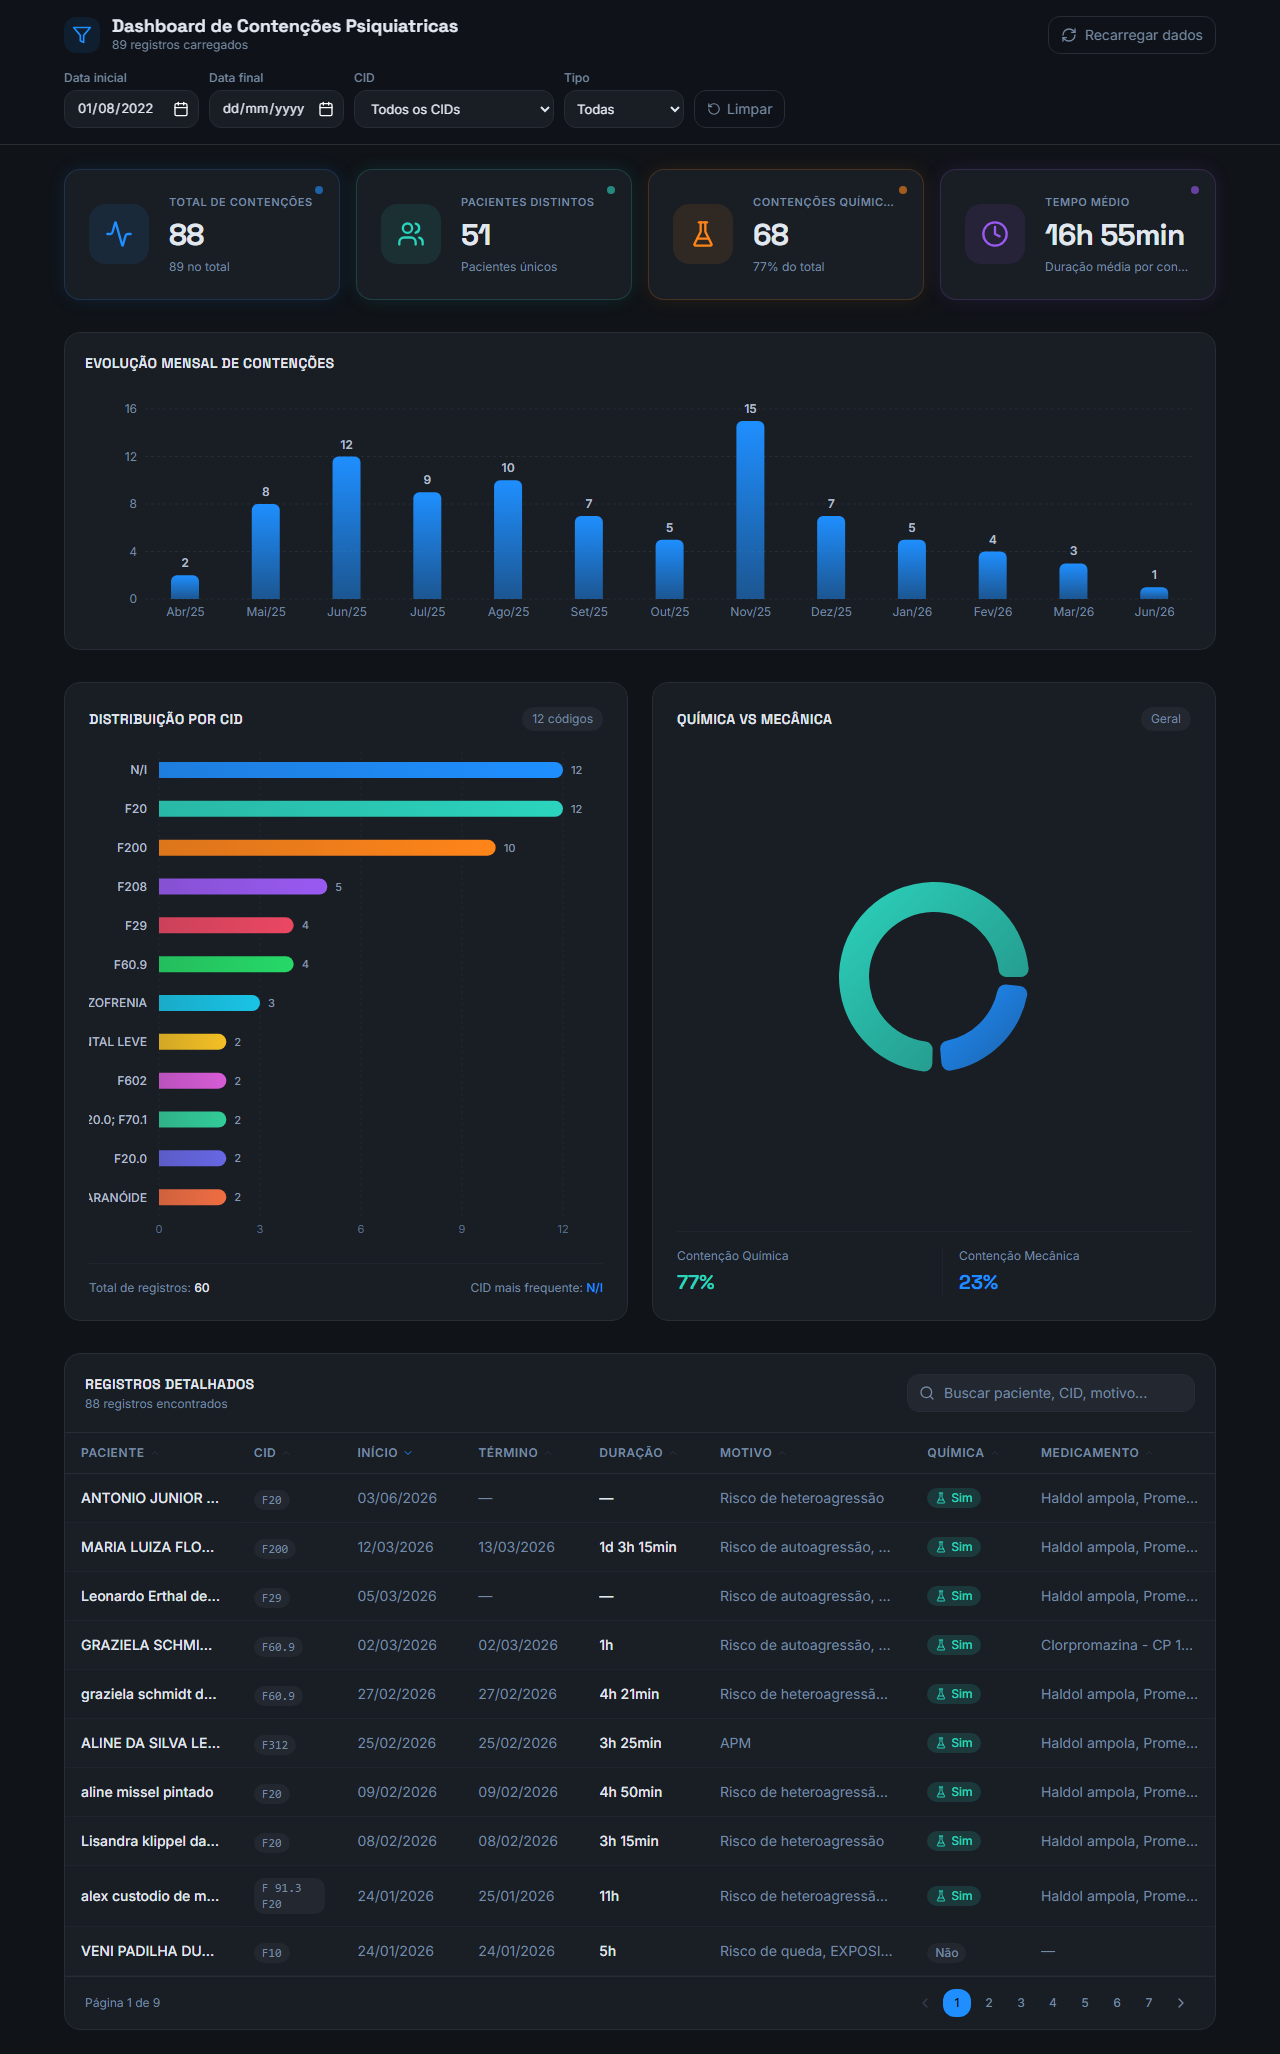
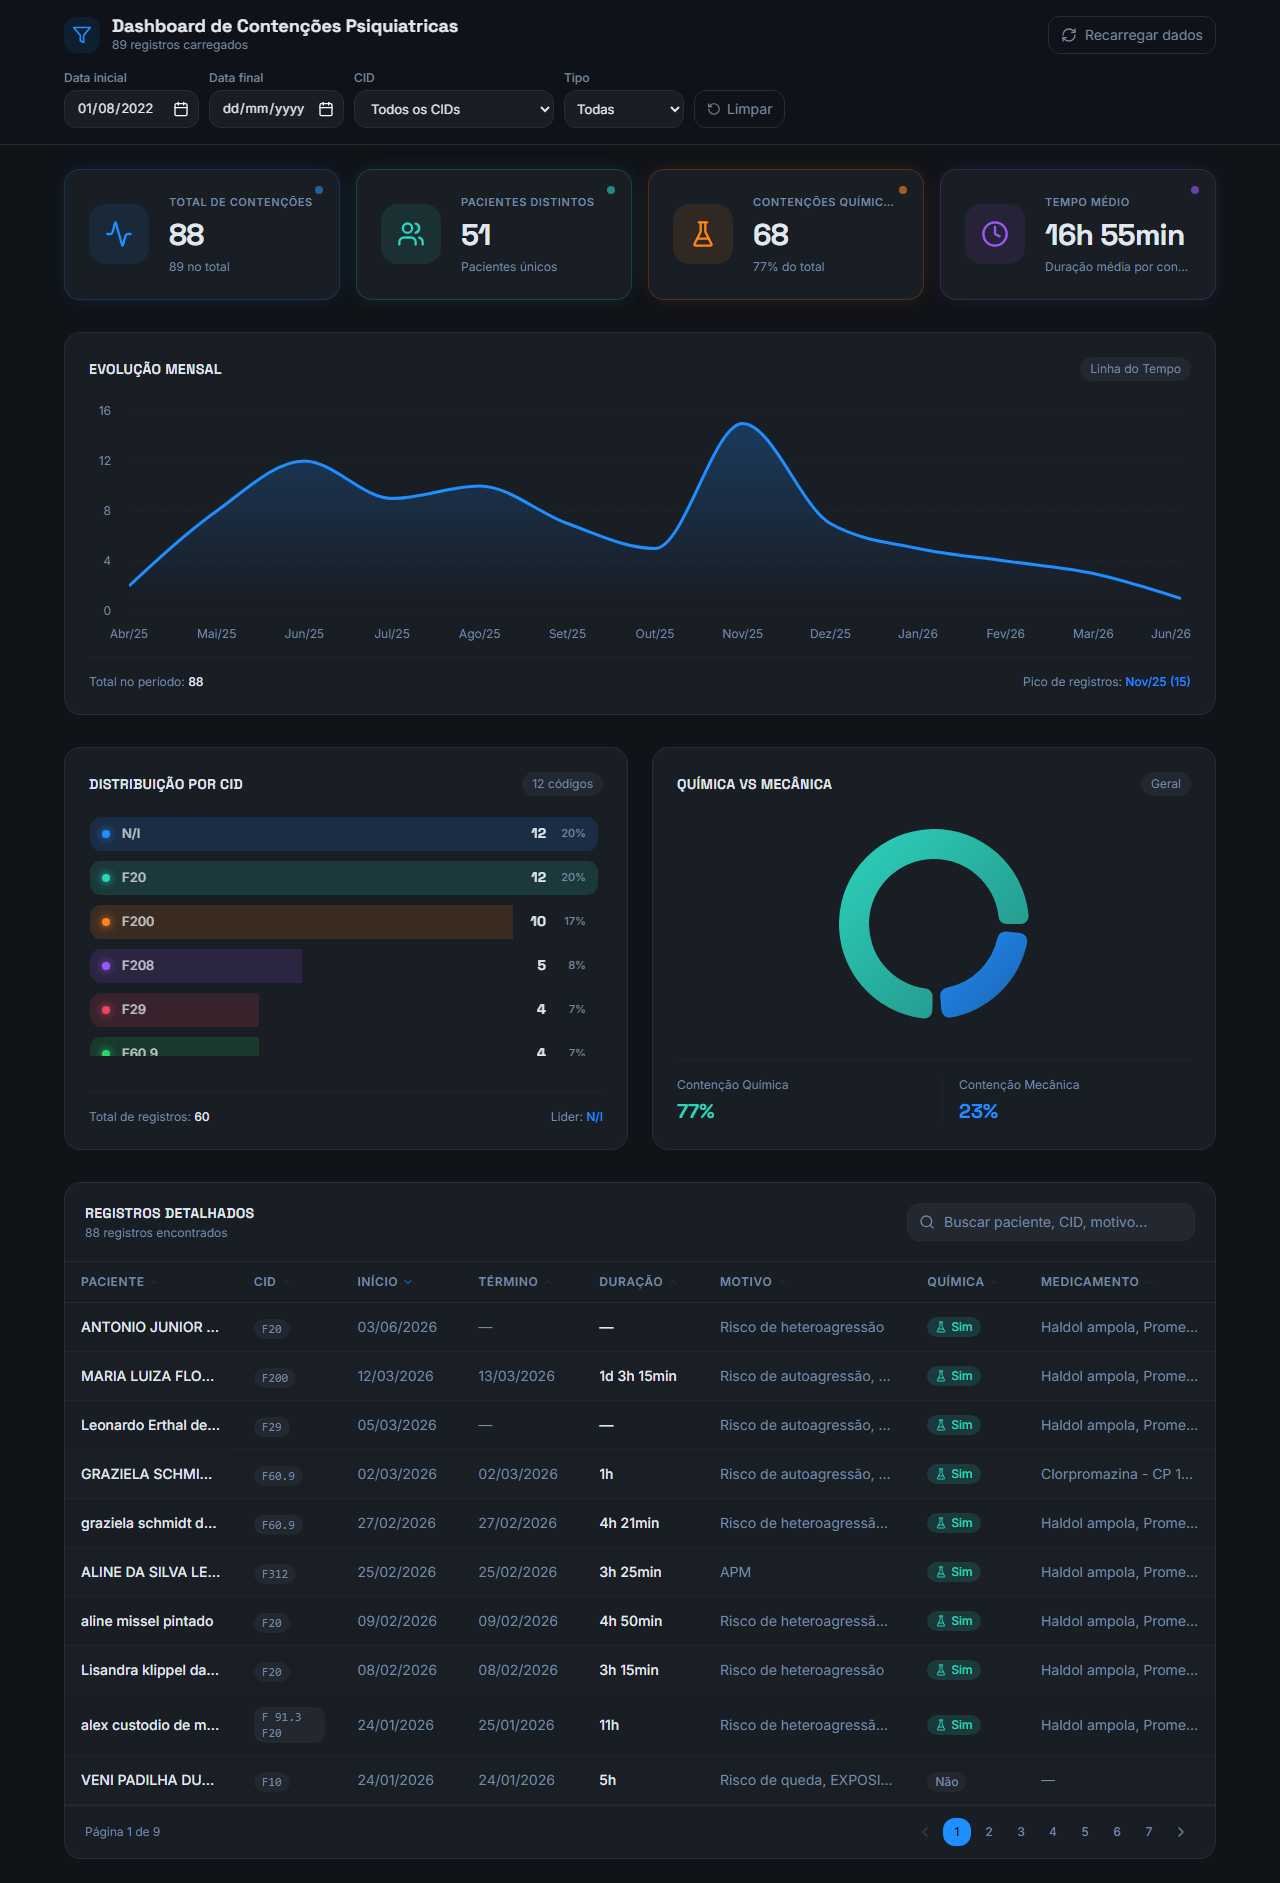
docs: resync README screenshots with final unified chart designs

diff --git a/src/components/dashboard/Charts.tsx b/src/components/dashboard/Charts.tsx
@@ -1,7 +1,8 @@
 import { motion } from "framer-motion";
 import {
   BarChart, Bar, LineChart, Line, XAxis, YAxis, CartesianGrid,
-  Tooltip, ResponsiveContainer, PieChart, Pie, Cell, Legend
+  Tooltip, ResponsiveContainer, PieChart, Pie, Cell, Legend,
+  AreaChart, Area
 } from "recharts";
 import type { MonthlyData, CIDData, RestraintRecord } from "@/types/restraint";
 
@@ -65,59 +66,90 @@ interface MonthlyChartProps {
 }
 
 export function MonthlyChart({ data }: MonthlyChartProps) {
-  const CustomBarLabel = ({ x, y, width, value }: any) => (
-    <text
-      x={x + width / 2}
-      y={y - 8}
-      fill="hsl(213, 20%, 75%)"
-      fontSize={12}
-      fontWeight={600}
-      textAnchor="middle"
-    >
-      {value > 0 ? value : ""}
-    </text>
-  );
+  const totalCount = data.reduce((sum, d) => sum + d.count, 0);
+  const maxMonth = data.length > 0 ? data.reduce((max, d) => d.count > max.count ? d : max, data[0]) : null;
 
   return (
-    <ChartCard title="Evolução Mensal de Contenções" index={0}>
-      <ResponsiveContainer width="100%" height={240}>
-        <BarChart data={data} barSize={28} margin={{ top: 20, right: 0, left: 0, bottom: 0 }}>
-          <defs>
-            <linearGradient id="barGradient" x1="0" y1="0" x2="0" y2="1">
-              <stop offset="0%" stopColor="hsl(210, 100%, 56%)" stopOpacity={1} />
-              <stop offset="100%" stopColor="hsl(210, 100%, 56%)" stopOpacity={0.5} />
-            </linearGradient>
-          </defs>
-          <CartesianGrid strokeDasharray="3 3" stroke="hsl(220, 15%, 18%)" vertical={false} />
-          <XAxis
-            dataKey="label"
-            tick={{ fill: "hsl(213, 20%, 55%)", fontSize: 12 }}
-            axisLine={false}
-            tickLine={false}
-          />
-          <YAxis
-            tick={{ fill: "hsl(213, 20%, 55%)", fontSize: 12 }}
-            axisLine={false}
-            tickLine={false}
-            allowDecimals={false}
-          />
-          <Tooltip
-            contentStyle={tooltipStyle}
-            labelStyle={tooltipLabelStyle}
-            itemStyle={tooltipItemStyle}
-            cursor={{ fill: "hsl(220, 15%, 18%)" }}
-            formatter={(v) => [v, "Contenções"]}
-          />
-          <Bar
-            dataKey="count"
-            fill="url(#barGradient)"
-            radius={[6, 6, 0, 0]}
-            name="Contenções"
-            label={<CustomBarLabel />}
-          />
-        </BarChart>
-      </ResponsiveContainer>
-    </ChartCard>
+    <motion.div
+      initial={{ opacity: 0, y: 20 }}
+      animate={{ opacity: 1, y: 0 }}
+      transition={{ duration: 0.5, delay: 0.1 }}
+      className="p-6 rounded-2xl bg-card border border-border flex flex-col h-full"
+    >
+      {/* Header */}
+      <div className="flex items-center justify-between mb-5">
+        <h3 className="font-display text-sm font-semibold text-foreground uppercase tracking-wide">
+          Evolução Mensal
+        </h3>
+        <span className="text-xs text-muted-foreground bg-muted px-2.5 py-1 rounded-full">
+          Linha do Tempo
+        </span>
+      </div>
+
+      {/* Chart Area */}
+      <div className="flex-1 w-full flex flex-col min-h-[220px]">
+        {data.length > 0 ? (
+          <ResponsiveContainer width="100%" height={240}>
+            <AreaChart data={data} margin={{ top: 10, right: 10, left: -20, bottom: 0 }}>
+              <defs>
+                <linearGradient id="colorCount" x1="0" y1="0" x2="0" y2="1">
+                  <stop offset="5%" stopColor="hsl(210, 100%, 56%)" stopOpacity={0.4} />
+                  <stop offset="95%" stopColor="hsl(210, 100%, 56%)" stopOpacity={0} />
+                </linearGradient>
+              </defs>
+              <CartesianGrid strokeDasharray="3 3" stroke="hsl(220, 15%, 16%)" vertical={false} />
+              <XAxis
+                dataKey="label"
+                tick={{ fill: "hsl(213, 20%, 55%)", fontSize: 12 }}
+                axisLine={false}
+                tickLine={false}
+                tickMargin={12}
+              />
+              <YAxis
+                tick={{ fill: "hsl(213, 20%, 55%)", fontSize: 12 }}
+                axisLine={false}
+                tickLine={false}
+                tickMargin={12}
+                allowDecimals={false}
+              />
+              <Tooltip
+                contentStyle={tooltipStyle}
+                labelStyle={tooltipLabelStyle}
+                itemStyle={tooltipItemStyle}
+                cursor={{ stroke: "hsl(220, 15%, 26%)", strokeWidth: 1, strokeDasharray: "4 4" }}
+                formatter={(v: number) => [v, "Contenções"]}
+              />
+              <Area
+                type="monotone"
+                dataKey="count"
+                stroke="hsl(210, 100%, 56%)"
+                fill="url(#colorCount)"
+                strokeWidth={3}
+                activeDot={{ r: 6, fill: "hsl(210, 100%, 56%)", stroke: "hsl(222, 47%, 11%)", strokeWidth: 4 }}
+                name="Contenções"
+              />
+            </AreaChart>
+          </ResponsiveContainer>
+        ) : (
+          <div className="flex items-center justify-center h-full text-muted-foreground text-sm">
+            Nenhum dado encontrado
+          </div>
+        )}
+      </div>
+
+      {/* Footer summary */}
+      <div className="mt-4 pt-4 border-t border-border/50 flex items-center justify-between">
+        <span className="text-xs text-muted-foreground">
+          Total no período: <span className="text-foreground font-medium">{totalCount}</span>
+        </span>
+        {maxMonth && (
+          <span className="text-xs text-muted-foreground">
+            Pico de registros:{" "}
+            <span className="text-primary font-medium">{maxMonth.label} ({maxMonth.count})</span>
+          </span>
+        )}
+      </div>
+    </motion.div>
   );
 }
 
@@ -127,43 +159,15 @@ interface CIDChartProps {
 
 export function CIDChart({ data }: CIDChartProps) {
   const totalCount = data.reduce((sum, d) => sum + d.count, 0);
-  const chartHeight = Math.max(240, data.length * 38 + 40);
-
-  const CustomYAxisTick = ({ x, y, payload }: any) => (
-    <g transform={`translate(${x},${y})`}>
-      <text
-        x={-4}
-        y={0}
-        dy={4}
-        textAnchor="end"
-        fill="hsl(213, 20%, 75%)"
-        fontSize={12}
-        fontWeight={500}
-      >
-        {payload.value}
-      </text>
-    </g>
-  );
-
-  const CustomBarLabel = ({ x, y, width, height, value }: any) => (
-    <text
-      x={x + width + 8}
-      y={y + height / 2}
-      dy={4}
-      fill="hsl(213, 20%, 60%)"
-      fontSize={11}
-      fontWeight={500}
-    >
-      {value}
-    </text>
-  );
+  const maxCount = data.length > 0 ? Math.max(...data.map(d => d.count)) : 1;
+  const sortedData = [...data].sort((a, b) => b.count - a.count);
 
   return (
     <motion.div
       initial={{ opacity: 0, y: 20 }}
       animate={{ opacity: 1, y: 0 }}
       transition={{ duration: 0.5, delay: 0.2 }}
-      className="p-6 rounded-2xl bg-card border border-border flex flex-col"
+      className="p-6 rounded-2xl bg-card border border-border flex flex-col h-full"
     >
       {/* Header */}
       <div className="flex items-center justify-between mb-5">
@@ -175,57 +179,51 @@ export function CIDChart({ data }: CIDChartProps) {
         </span>
       </div>
 
-      {/* Chart */}
-      <div className="flex-1">
-        <ResponsiveContainer width="100%" height={chartHeight}>
-          <BarChart
-            data={data}
-            layout="vertical"
-            barSize={16}
-            margin={{ top: 0, right: 40, left: 0, bottom: 0 }}
-          >
-            <defs>
-              {COLORS.map((color, i) => (
-                <linearGradient key={i} id={`cidGrad${i}`} x1="0" y1="0" x2="1" y2="0">
-                  <stop offset="0%" stopColor={color} stopOpacity={0.85} />
-                  <stop offset="100%" stopColor={color} stopOpacity={1} />
-                </linearGradient>
-              ))}
-            </defs>
-            <CartesianGrid
-              strokeDasharray="3 3"
-              stroke="hsl(220, 15%, 16%)"
-              horizontal={false}
-            />
-            <XAxis
-              type="number"
-              tick={{ fill: "hsl(213, 20%, 45%)", fontSize: 11 }}
-              axisLine={false}
-              tickLine={false}
-              allowDecimals={false}
-            />
-            <YAxis
-              dataKey="cid"
-              type="category"
-              tick={<CustomYAxisTick />}
-              axisLine={false}
-              tickLine={false}
-              width={70}
-            />
-            <Tooltip
-              contentStyle={tooltipStyle}
-              labelStyle={tooltipLabelStyle}
-              itemStyle={tooltipItemStyle}
-              cursor={{ fill: "hsl(220, 15%, 14%)", radius: 4 }}
-              formatter={(v: number) => [`${v} (${totalCount > 0 ? ((v / totalCount) * 100).toFixed(1) : 0}%)`, "Contenções"]}
-            />
-            <Bar dataKey="count" radius={[0, 8, 8, 0]} name="Contenções" label={<CustomBarLabel />}>
-              {data.map((_, index) => (
-                <Cell key={index} fill={`url(#cidGrad${index % COLORS.length})`} />
-              ))}
-            </Bar>
-          </BarChart>
-        </ResponsiveContainer>
+      {/* Chart (Modern Ranked List) */}
+      <div className="flex-1 w-full flex flex-col min-h-[220px]">
+        {sortedData.length > 0 ? (
+          <div className="flex flex-col gap-2 max-h-[240px] overflow-y-auto scrollbar-thin pr-1 pb-1">
+            {sortedData.map((item, index) => {
+              const color = COLORS[index % COLORS.length];
+              const percentage = Math.max((item.count / maxCount) * 100, 2); // At least 2% for visibility
+
+              return (
+                <div key={item.cid} className="relative h-[36px] shrink-0 flex items-center justify-between px-3 group rounded-lg overflow-hidden border border-transparent hover:border-border/40 transition-colors">
+                  <motion.div
+                    initial={{ width: 0 }}
+                    animate={{ width: `${percentage}%` }}
+                    transition={{ duration: 0.8, delay: index * 0.04, ease: "easeOut" }}
+                    className="absolute left-0 top-0 h-full origin-left"
+                    style={{ backgroundColor: color, opacity: 0.15 }}
+                  />
+
+                  <div className="relative z-10 flex items-center gap-3">
+                    <span
+                      className="w-2 h-2 rounded-full"
+                      style={{ backgroundColor: color, boxShadow: `0 0 8px ${color}` }}
+                    />
+                    <span className="text-[13px] font-medium text-foreground/80 group-hover:text-foreground transition-colors truncate max-w-[140px] xl:max-w-[200px]">
+                      {item.cid}
+                    </span>
+                  </div>
+
+                  <div className="relative z-10 flex items-center gap-2">
+                    <span className="text-[14px] font-display font-bold text-foreground">
+                      {item.count}
+                    </span>
+                    <span className="text-[11px] text-muted-foreground w-8 text-right font-medium">
+                      {Math.round((item.count / totalCount) * 100)}%
+                    </span>
+                  </div>
+                </div>
+              );
+            })}
+          </div>
+        ) : (
+          <div className="flex items-center justify-center flex-1 text-muted-foreground text-sm">
+            Nenhum dado encontrado
+          </div>
+        )}
       </div>
 
       {/* Footer summary */}
@@ -233,10 +231,10 @@ export function CIDChart({ data }: CIDChartProps) {
         <span className="text-xs text-muted-foreground">
           Total de registros: <span className="text-foreground font-medium">{totalCount}</span>
         </span>
-        {data.length > 0 && (
+        {sortedData.length > 0 && (
           <span className="text-xs text-muted-foreground">
-            CID mais frequente:{" "}
-            <span className="text-primary font-medium">{data[0].cid}</span>
+            Líder:{" "}
+            <span className="text-primary font-medium">{sortedData[0].cid}</span>
           </span>
         )}
       </div>
